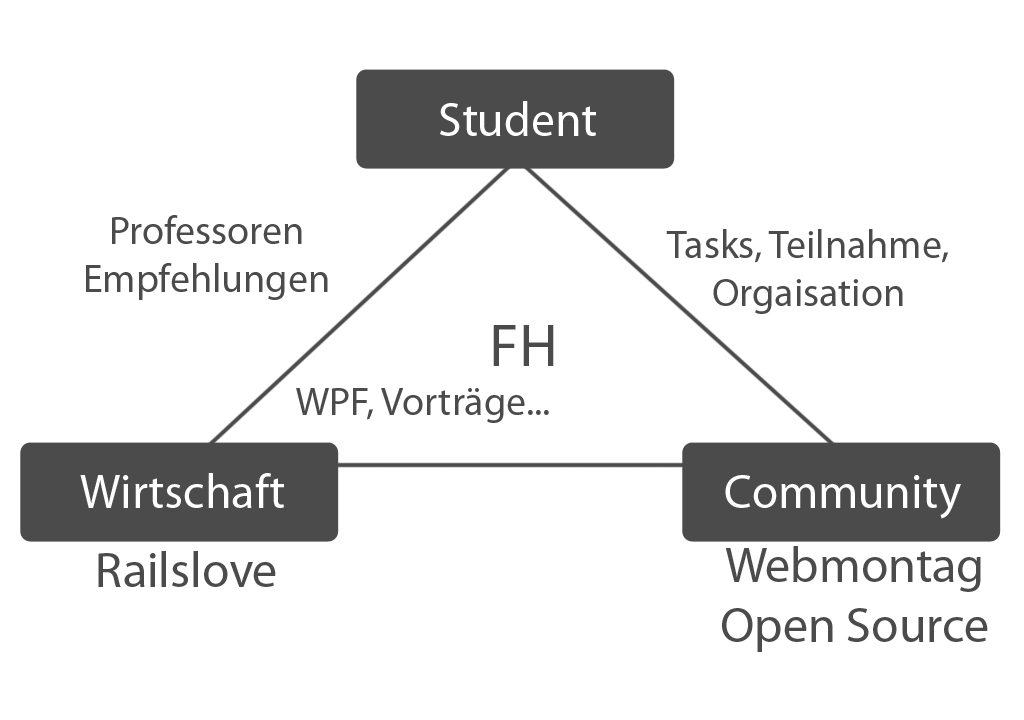
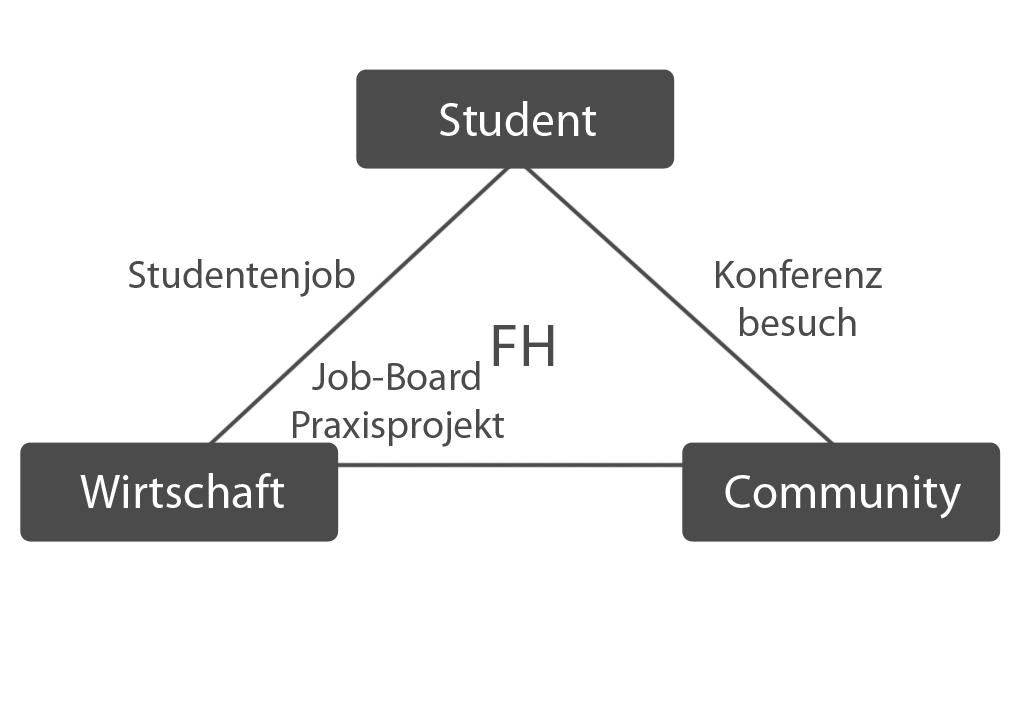
more changes

diff --git a/railslove_bpi_2012/2_roles_of_a_scientist.md b/railslove_bpi_2012/2_roles_of_a_scientist.md
@@ -4,54 +4,39 @@
 
 eines Informatikers
 
+<!SLIDE full-page-image>
+
+![](projektdiagramm.png)
+
 !SLIDE
 
 # Rollen
-* Systemarchitekt:
-  * Planung, Umsetzung und Wartung der Systeminfrastruktur
-* Entwickler
-  * Umsetzung (und Konzeption) einer Applikation
-* CTO
-  * Planung und Organisation des IT-Teams
-* Produkt
-  * Konzeption und Strategieentwicklung des Produkts
-* Business Developer
-  * Umsetzung der Unternehmensstrategie
 * Geschäftsführung (CEO)
   * Planung der Unternehmensstrategie
   * Schließen strategischer Partnerschaften
+* CTO & Projektmanager
+  * Planung und Organisation des IT-Teams
+* Entwickler
+  * Umsetzung (und Konzeption) einer Applikation
+* Produkt
+  * Konzeption und Strategieentwicklung des Produkts
+
 
 !SLIDE callout sk-red
 # Hands On III
+
+Rollen eines Informatikers
 
 !SLIDE chapter-opener
 
 Aufgabe: In welcher Rolle seht ihr euch
 
-Systemarchitekt
+Geschäftsführung
+
+CTO & Projektmanager
+
+Produktmanager
 
 Entwickler
 
-CTO
-
-Usability Engineer
-
-Produkt
-
-Business Developer
-
-Geschäftsführung (CEO)
-
-!SLIDE chapter-opener
-
-Aufgabe
-
-Stellt jeweils eine Frage zu einem paar an Kategorien und Subkategorien:
-
-Kategorie: .....
-
-Subkategorie: .....
-
-Gibt vielleicht eure E-Mail Adresse und Github-/Twitter-Handle an, dann werden wir die Fragen auch in das Spiel integrieren.
-
-10 Min. Bearbeitungszeit
+Architekt

diff --git a/railslove_bpi_2012/3_scientist_and_his_life.md b/railslove_bpi_2012/3_scientist_and_his_life.md
@@ -42,13 +42,17 @@ und sein Leben
 * Termine, Coden, Gespräche Nebenbei, Kickern, usw.
 * Alltag bei Railslove
 
+<!SLIDE full-page-image>
+
+![](arbeitsalltag.png)
+
 !SLIDE
 
 # Das Wissen erwerben
 
 * User groups besuchen
 * Find pairs online or in your local user group
-* Meet, Talk and teach 
+* Meet, Talk and teach
 
 !SLIDE
 
@@ -56,7 +60,7 @@ und sein Leben
 
 * We mostly work with our minds, but the mind is a part of the body
 * Conclusion: For the mind to work well, the body must be in good shape
-* Not treating the body right leads to a mortgage that has to be paid back 
+* Not treating the body right leads to a mortgage that has to be paid back
   * Vermide: Stressvolle Projekte und Stressvolle Kunden
   * Wenn mann möchte findet man auch andere Kunden
 * Burn out (auch im Studium)
@@ -69,7 +73,7 @@ und sein Leben
 !SLIDE
 
 * Obst essen
-* Schlafen 
+* Schlafen
   * Reguraly take a Nap, Red Bull WON'T HELP
 * Bewegung
   * 30 minutes of activity a day helps against: DEpression, Obesity, High blood presure

diff --git a/railslove_bpi_2012/3_scientist_and_product.md b/railslove_bpi_2012/3_scientist_and_product.md
@@ -20,12 +20,18 @@ im Produkt
 !SLIDE callout sk-red
 # Hands On V
 
+Informatiker im Produkt
+
 !SLIDE chapter-opener
 Aufgabe: Feature-Reihenfolge
 
-* Zur Wahl stehen (Beispiel):
+* Zur Wahl stehen:
   * Internationalisierung
-  * Mobile Client
+  * Cross-Devise
   * API
+  * Follower
+  * Integration von Twitter/Facebook
+  * Favorites
+  * Comments
 
 * Ziel: Sinnvolle Reihenfolge der Schritte festlegen und begründen

diff --git a/railslove_bpi_2012/0_agenda.md b/railslove_bpi_2012/0_agenda.md
@@ -3,10 +3,12 @@
 # Inhalt
 
 * Einführung
-  * Railslove
-* Kaptiel 1
-  * Die Wege in die Wirtschaft
-  * Rollen eines Informatikers
-* Kapitel 2
-  * Informatiker aus verschiedenen Blickwinkeln
-  * Biz, Produkt, Entwicklung, Work-Life-Balance
+* Die Wege in die Wirtschaft
+* Rollen eines Informatikers
+
+# Ablauf
+* Mitmach-Veranstaltung
+
+# Was erzählen wir?
+* Kein Lehrbuchwissen
+* Was wir tagtäglich erleben

diff --git a/railslove_bpi_2012/2_step_into_economy.md b/railslove_bpi_2012/2_step_into_economy.md
@@ -21,6 +21,13 @@ in die Wirtschaft
 
 ist das nicht
 
+!SLIDE
+
+#Fragen
+
+* Wer von euch hat einen Studentenjob?
+* Wer davon im Informatikumfeld?
+* Wer besucht User groups (welche)?
 
 <!SLIDE full-page-image>
 
@@ -29,6 +36,10 @@ ist das nicht
 <!SLIDE full-page-image>
 
 ![](dreieck_step2.png)
+
+<!SLIDE full-page-image>
+
+![](dreieck_step3.png)
 
 
 !SLIDE callout sk-red

diff --git a/railslove_bpi_2012/3_scientist_and_development.md b/railslove_bpi_2012/3_scientist_and_development.md
@@ -42,6 +42,8 @@ in der Webbranche
 !SLIDE callout sk-red
 # Hands On IV
 
+Informatiker als Entwickler
+
 !SLIDE chapter-opener
 Aufgabe: Datenmodell entwickeln
 
